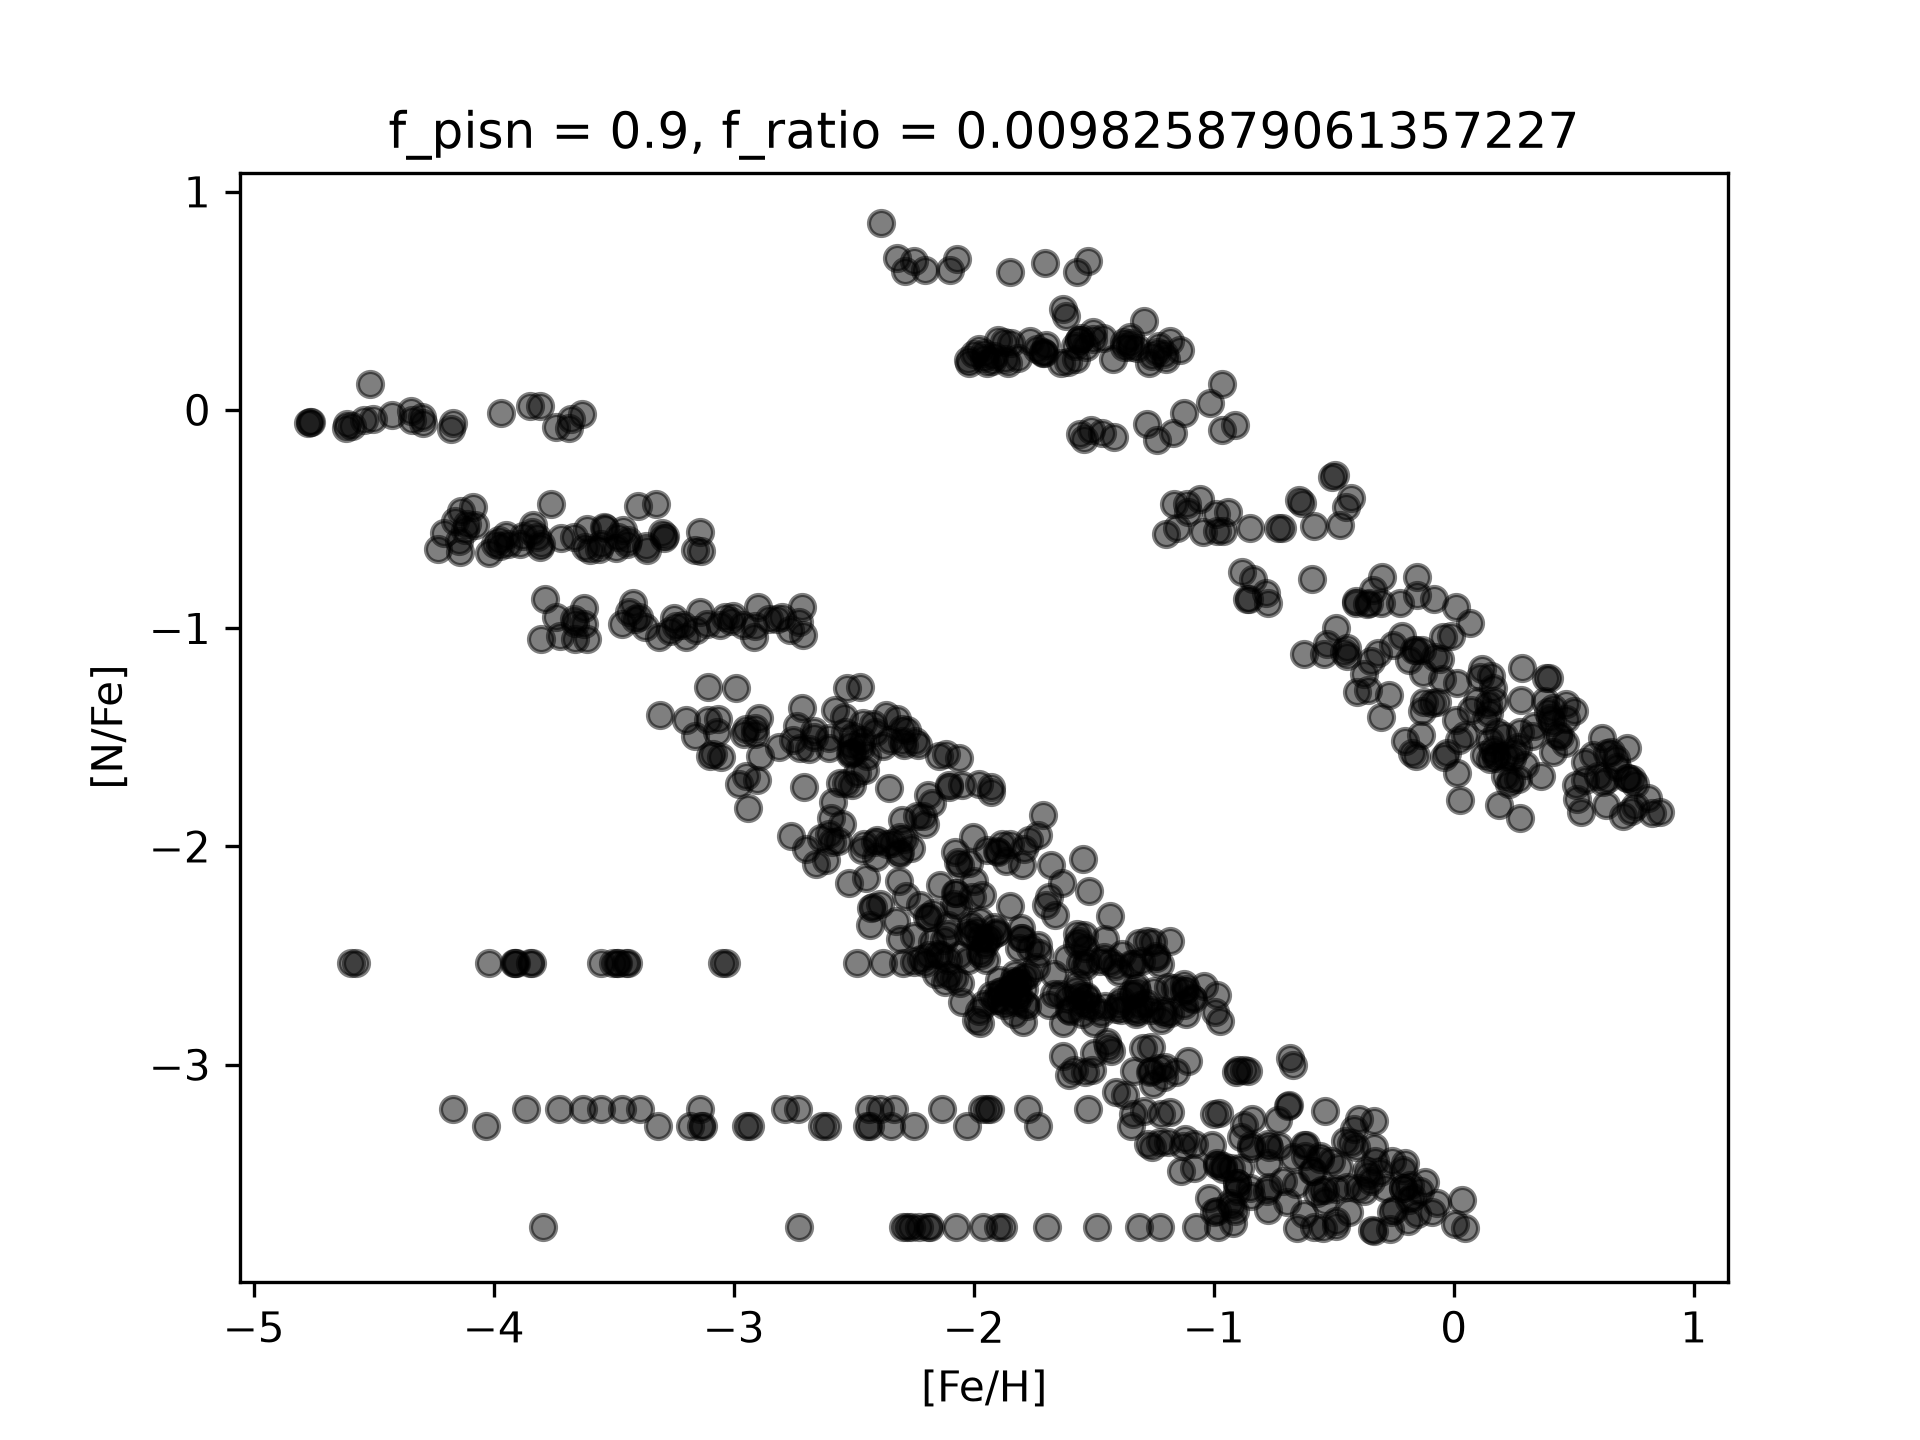
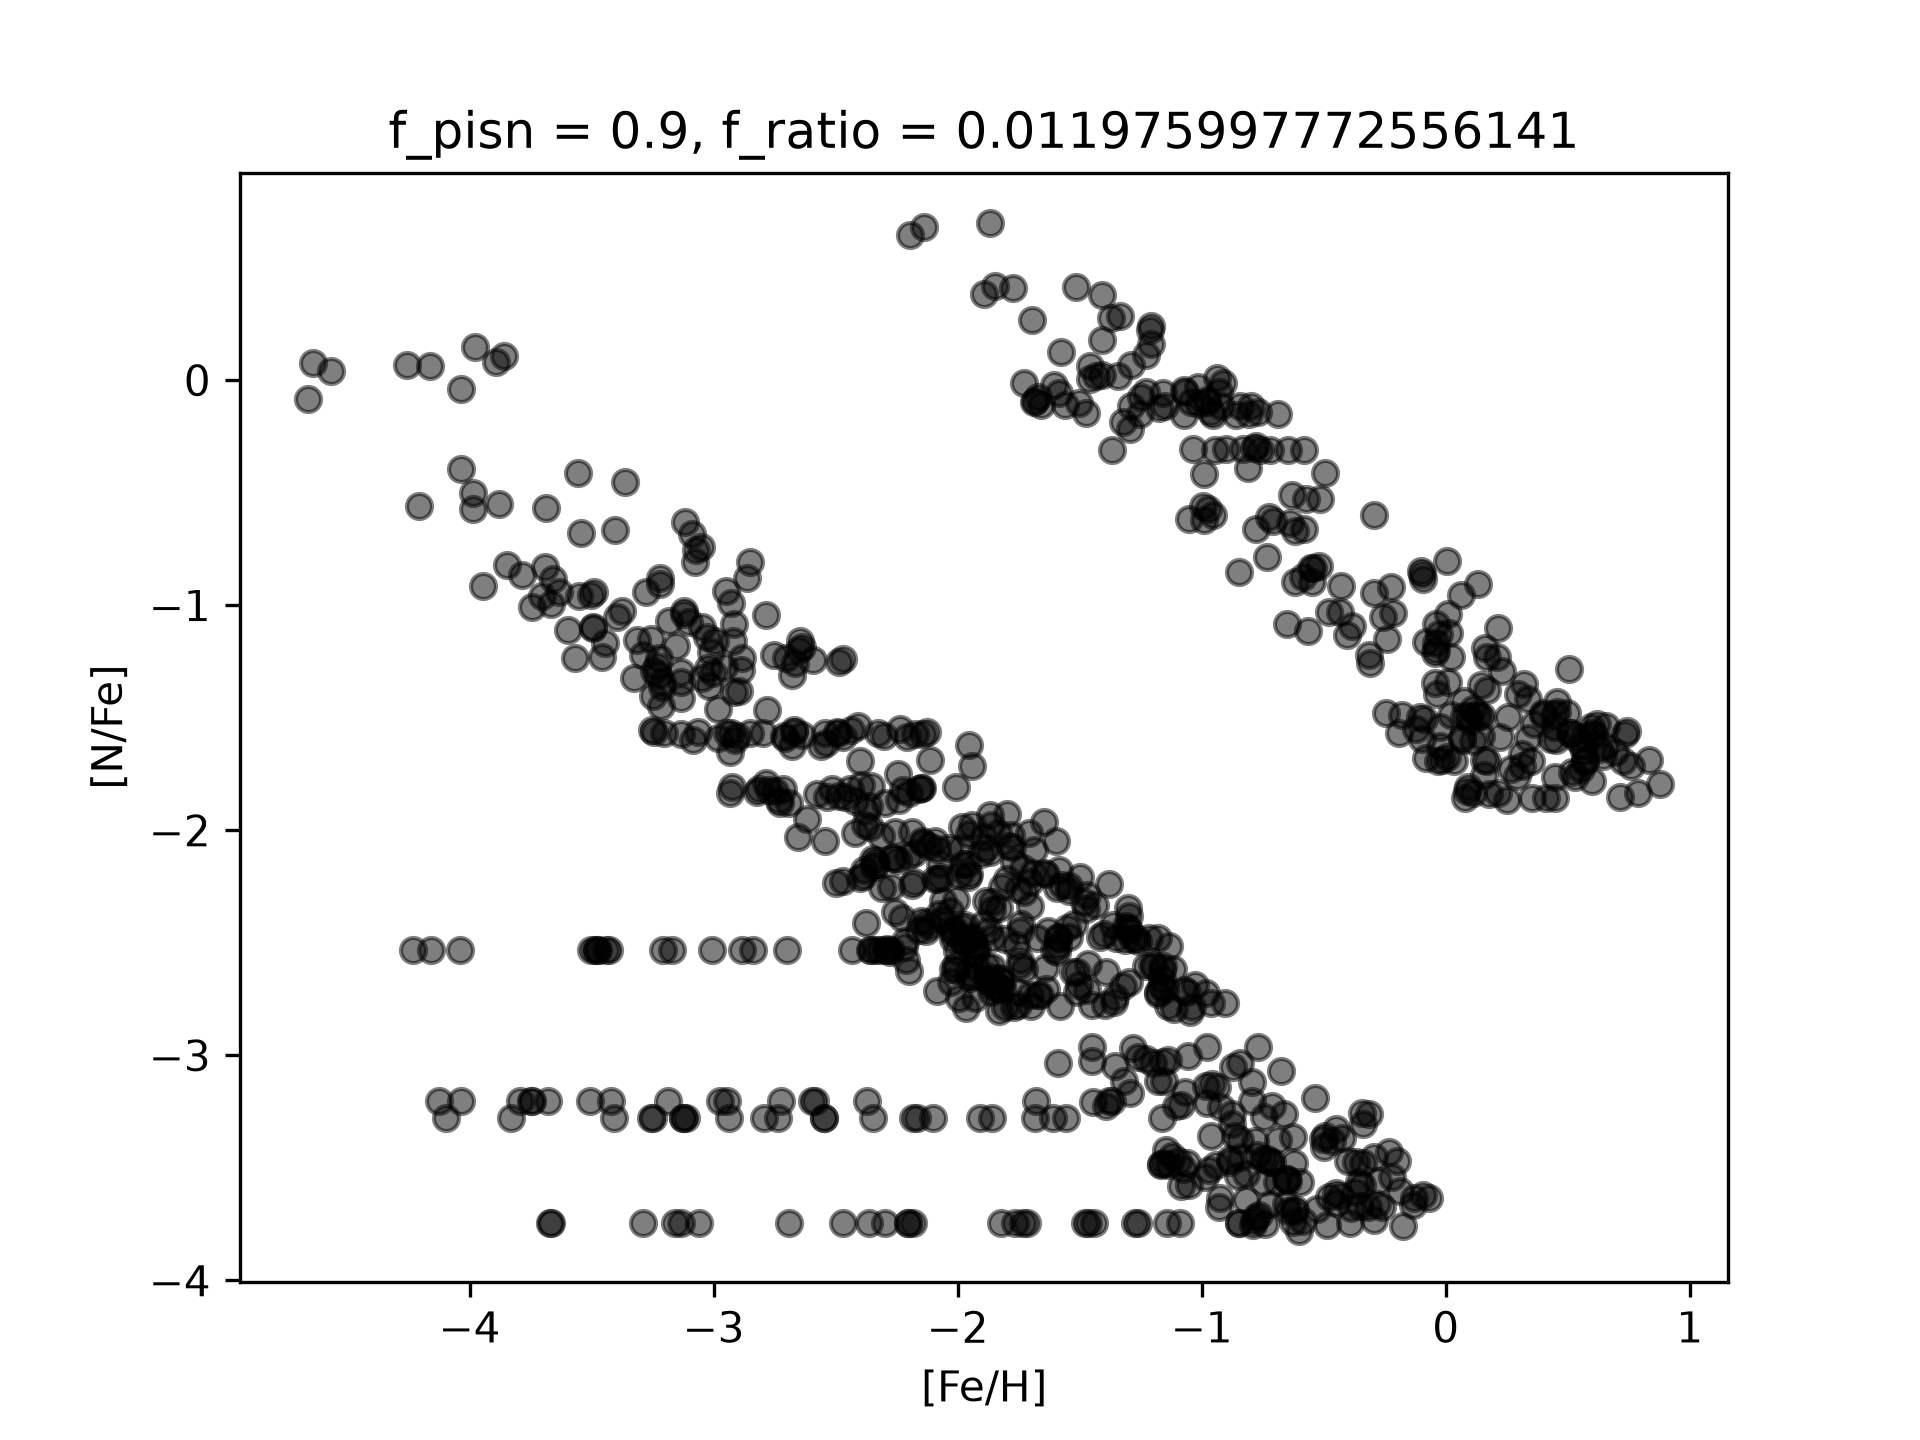
FINALLY FIXED THE RATIOS 😭

diff --git a/src/utils.py b/src/utils.py
@@ -64,6 +64,45 @@ def _combine_elements(yields: dict[str, float]) -> dict[str, float]:
         combined[elem] = combined.get(elem, 0.0) + val
     return combined
 
+# Some raw yield tables (WW95 in particular) report freshly-synthesized,
+# PRE-DECAY isotopic yields, including short-lived radioactive species.
+# On any timescale relevant to this project (>= Myr), these have long
+# since decayed to their stable daughter. Chief among them: 56Ni (t1/2=6.1d)
+# -> 56Co (t1/2=77d) -> 56Fe, which is the dominant iron-production channel
+# in core-collapse SNe. Filing 56Ni under elemental "Ni" (as a naive
+# isotope->element mapping would) silently strips the majority of a CCSN's
+# true iron yield out of "Fe" and into "Ni".
+#
+# Only decay chains with total half-lives << 1 Myr (our shortest tpopII of
+# interest) are included; e.g. 60Fe (t1/2=2.6 Myr, -> 60Co -> 60Ni) is left
+# alone since its decay is not fast on our timescales of interest.
+_RADIOACTIVE_DECAY_MAP = {
+    "Ni56": "Fe",  # 56Ni -> 56Co -> 56Fe
+    "Co56": "Fe",
+    "Ni57": "Fe",  # 57Ni -> 57Co -> 57Fe
+    "Co57": "Fe",
+    "Co55": "Mn",  # 55Co -> 55Fe -> 55Mn
+    "Fe55": "Mn",
+}
+
+
+def _apply_radioactive_decay(yields: dict[str, float]) -> dict[str, float]:
+    """Route short-lived isotopes to their stable decay product.
+
+    Must be called on RAW isotope-level yields, before _combine_elements.
+    Isotopes not in _RADIOACTIVE_DECAY_MAP pass through unchanged (under
+    their own isotope label); _combine_elements still needs to be called
+    afterward to fold everything into per-element totals.
+    """
+    result = {}
+    for iso, val in yields.items():
+        target_elem = _RADIOACTIVE_DECAY_MAP.get(_isotope_label(iso))
+        if target_elem is not None:
+            result[target_elem] = result.get(target_elem, 0.0) + val
+        else:
+            result[iso] = result.get(iso, 0.0) + val
+    return result
+
 
 def extract_yield_peaks(pisn_yields, sn_yields, elem, f_pisn=0.9,f_ratio=1e-4, n_samples=500):
     """Extract local density maxima of [elem/Fe] vs [Fe/H] and return, per peak,

diff --git a/src/salvadori/fig5.py b/src/salvadori/fig5.py
@@ -3,7 +3,7 @@ import numpy as np
 
 from src.load_data import load_ww95
 from src.salvadori_funcs import salvadori_Y_X_II, salvadori_Y_Z_II
-from src.utils import _combine_elements
+from src.utils import _combine_elements, _apply_radioactive_decay
 from src.formulas import raiteri_lifetime
 from params import ww95_001Z, Z_SUN
 
@@ -76,14 +76,14 @@ lifetimes = np.array([raiteri_lifetime(m, Z_STAR) for m in masses])
 
 # --- Left panel: raw per-star yield mass, m_X^II(m), vs that star's lifetime ---
 def per_star_yield(data, elem, model=MODEL):
-    """Raw ejecta mass of `elem` for each tabulated mass, in the same mass
-    order as `masses_for_model`. 0.0 where the element isn't tabulated for
-    that mass/table at all."""
+    """Raw (decay-corrected) ejecta mass of `elem` for each tabulated mass,
+    in the same mass order as `masses_for_model`. 0.0 where the element
+    isn't tabulated for that mass/table at all."""
     by_mass = {}
     for entry in data:
         if entry["params"]["model"] != model:
             continue
-        yv = _combine_elements(entry["yields"])
+        yv = _combine_elements(_apply_radioactive_decay(entry["yields"]))
         if elem == "Z":
             val = sum(v for el, v in yv.items() if el not in ("H", "He"))
         else:

diff --git a/src/salvadori_funcs.py b/src/salvadori_funcs.py
@@ -9,7 +9,7 @@ from scipy.interpolate import interp1d
 from src.formulas import larson_imf, raiteri_mass_from_lifetime, raiteri_lifetime
 from src.load_data import load_ww95
 
-from .utils import _combine_elements, _get_element
+from .utils import _combine_elements, _get_element, _apply_radioactive_decay
 from params import asplund, atomic_mass, Z_SUN
 
 
@@ -281,10 +281,10 @@ def salvadori_Y_X_II(data: list[dict], elem: str, m_popII: float, model: str = "
             continue
 
         mass = entry["params"]["mass"]
-        element_yields = _combine_elements(entry["yields"])
+        element_yields = _combine_elements(_apply_radioactive_decay(entry["yields"]))
 
-        if elem == "Fe":
-            element_yields["Fe"] *= 0.5
+        # if elem == "Fe":
+        #     element_yields["Fe"] *= 0.5
 
         if elem not in element_yields:
             continue
@@ -345,7 +345,7 @@ def salvadori_Y_Z_II(data: list[dict], m_popII: float, model: str = "A", m_max: 
             continue
 
         mass = entry["params"]["mass"]
-        element_yields = _combine_elements(entry["yields"])
+        element_yields = _combine_elements(_apply_radioactive_decay(entry["yields"]))
 
         element_yields["Fe"] = element_yields.get("Fe", 0.0) * 0.5
 

diff --git a/src/formulas.py b/src/formulas.py
@@ -105,7 +105,7 @@ def raiteri_mass_from_lifetime(
     lifetime: float,
     Z: float,
     m_min: float = 0.1,
-    m_max: float = 40.0,
+    m_max: float = 100.0,
 ) -> float | None:
 
     tau_min_mass = raiteri_lifetime(m_max, Z)

diff --git a/src/salvadori/fig7.py b/src/salvadori/fig7.py
@@ -33,7 +33,7 @@ for elem in ["Cu", "Zn", "N"]:
 
     X_Fe = []
     Fe_H = []
-    for i in range(1000):
+    for i in range(4000):
         pisn_entry = random.choice(salvadori_pisn_yields)
 
         f_pisn = 0.9

diff --git a/src/salvadori/fig4.py b/src/salvadori/fig4.py
@@ -27,7 +27,7 @@ STYLE = {
 }
 
 tpop2_list = [3e6, 6e6, 10e6, 20e6, 30e6]  # in years
-f_pisn = 0.5
+f_pisn = 0.9
 
 fig, ax = plt.subplots(figsize=(6, 5))
 
